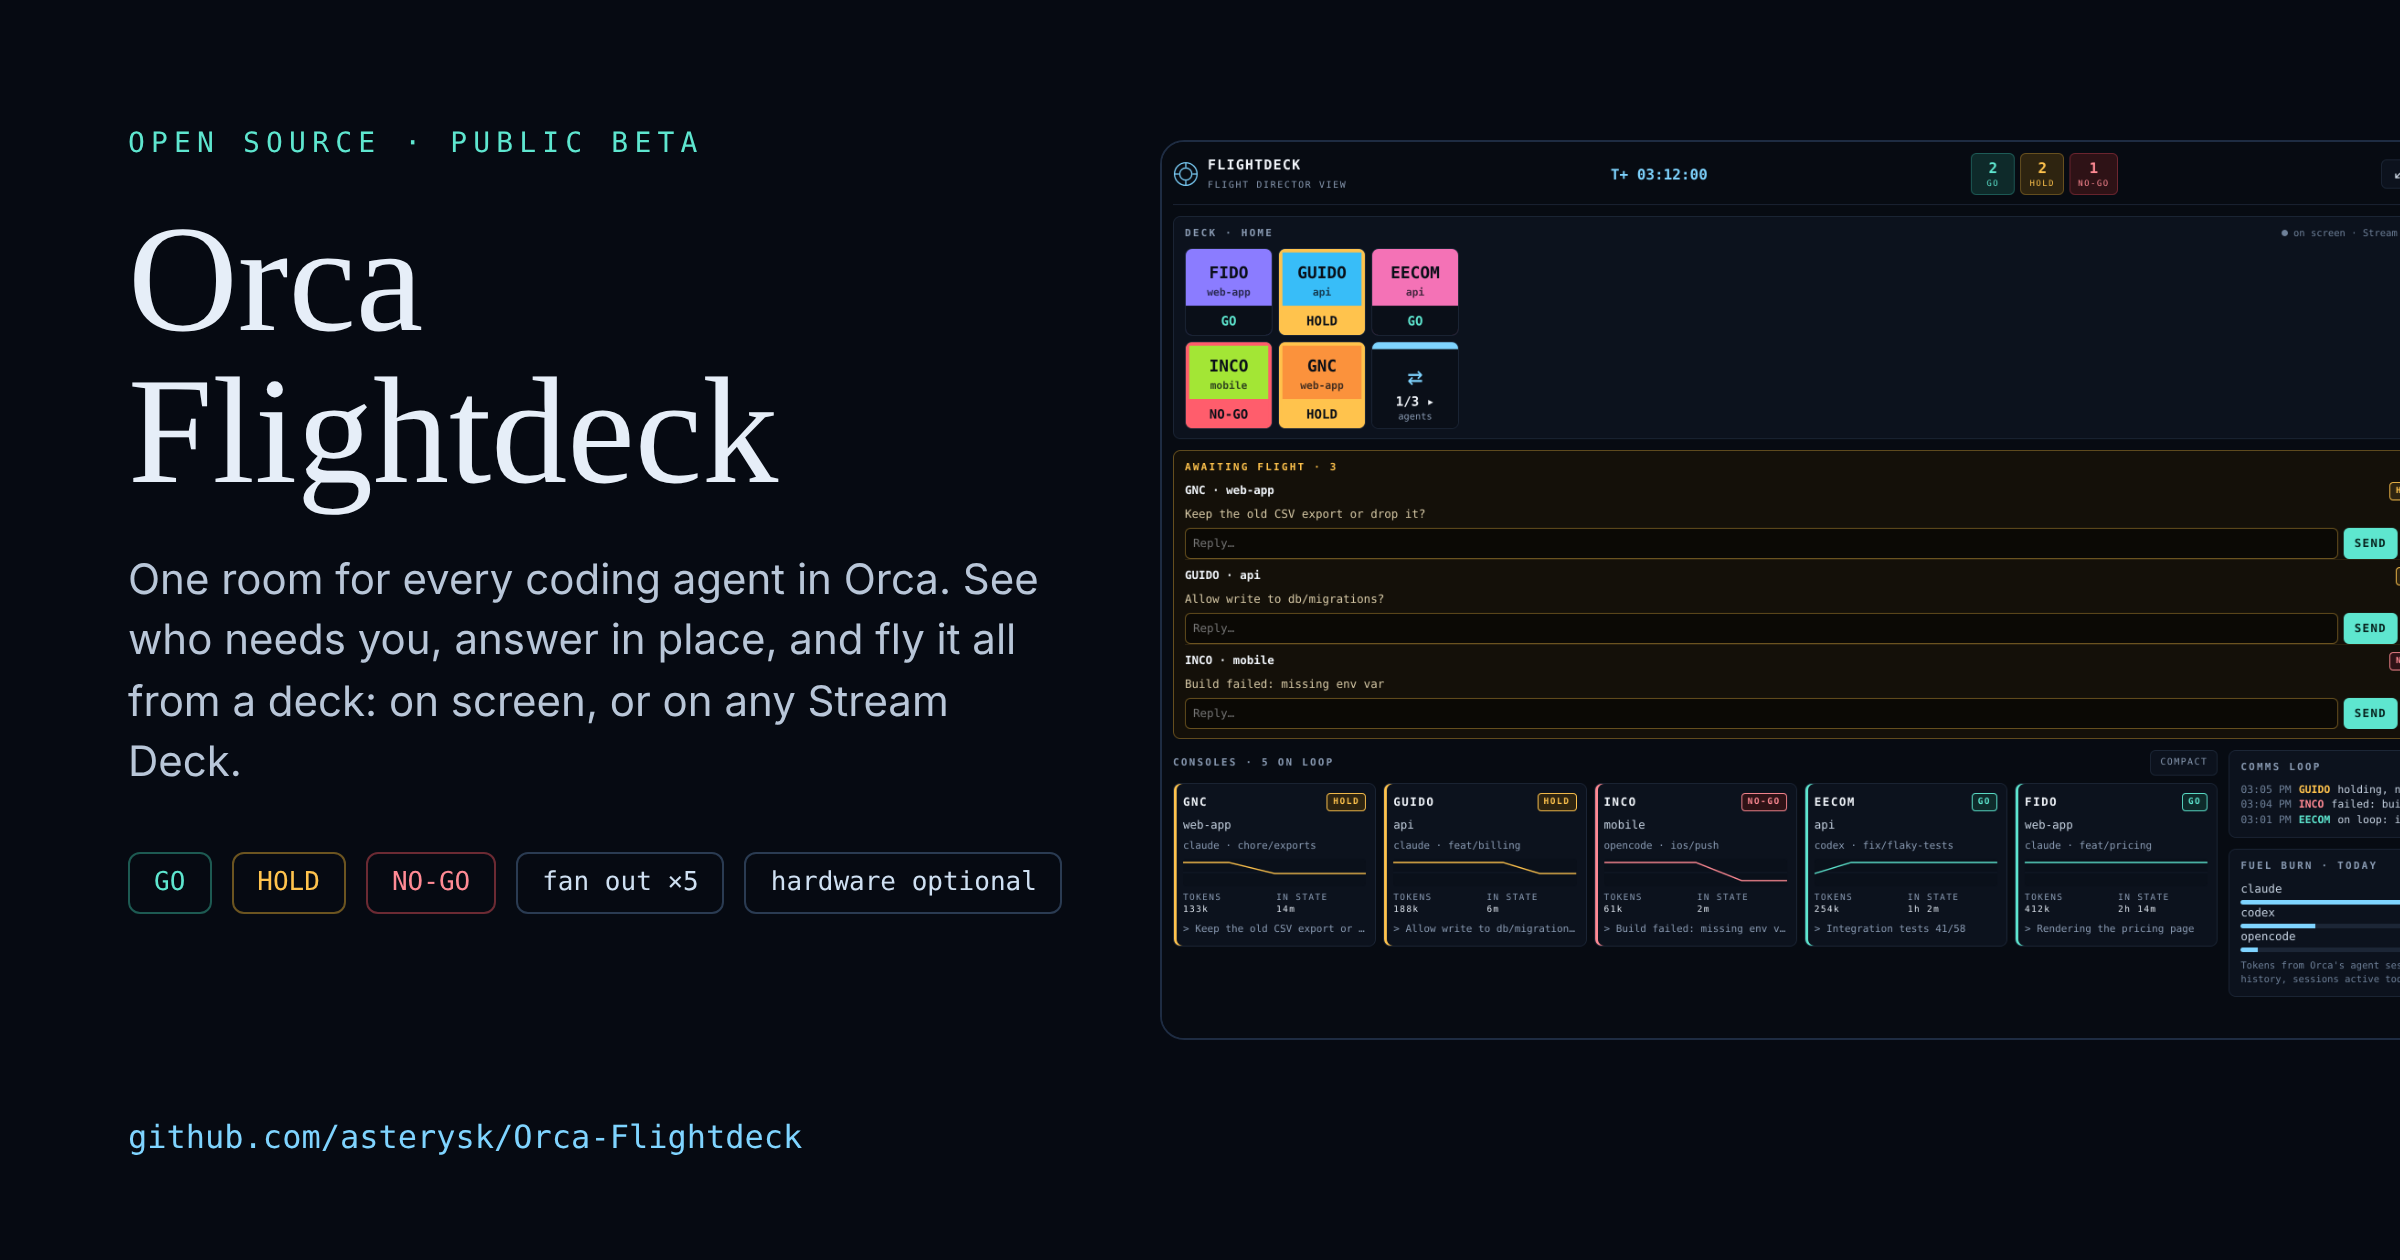
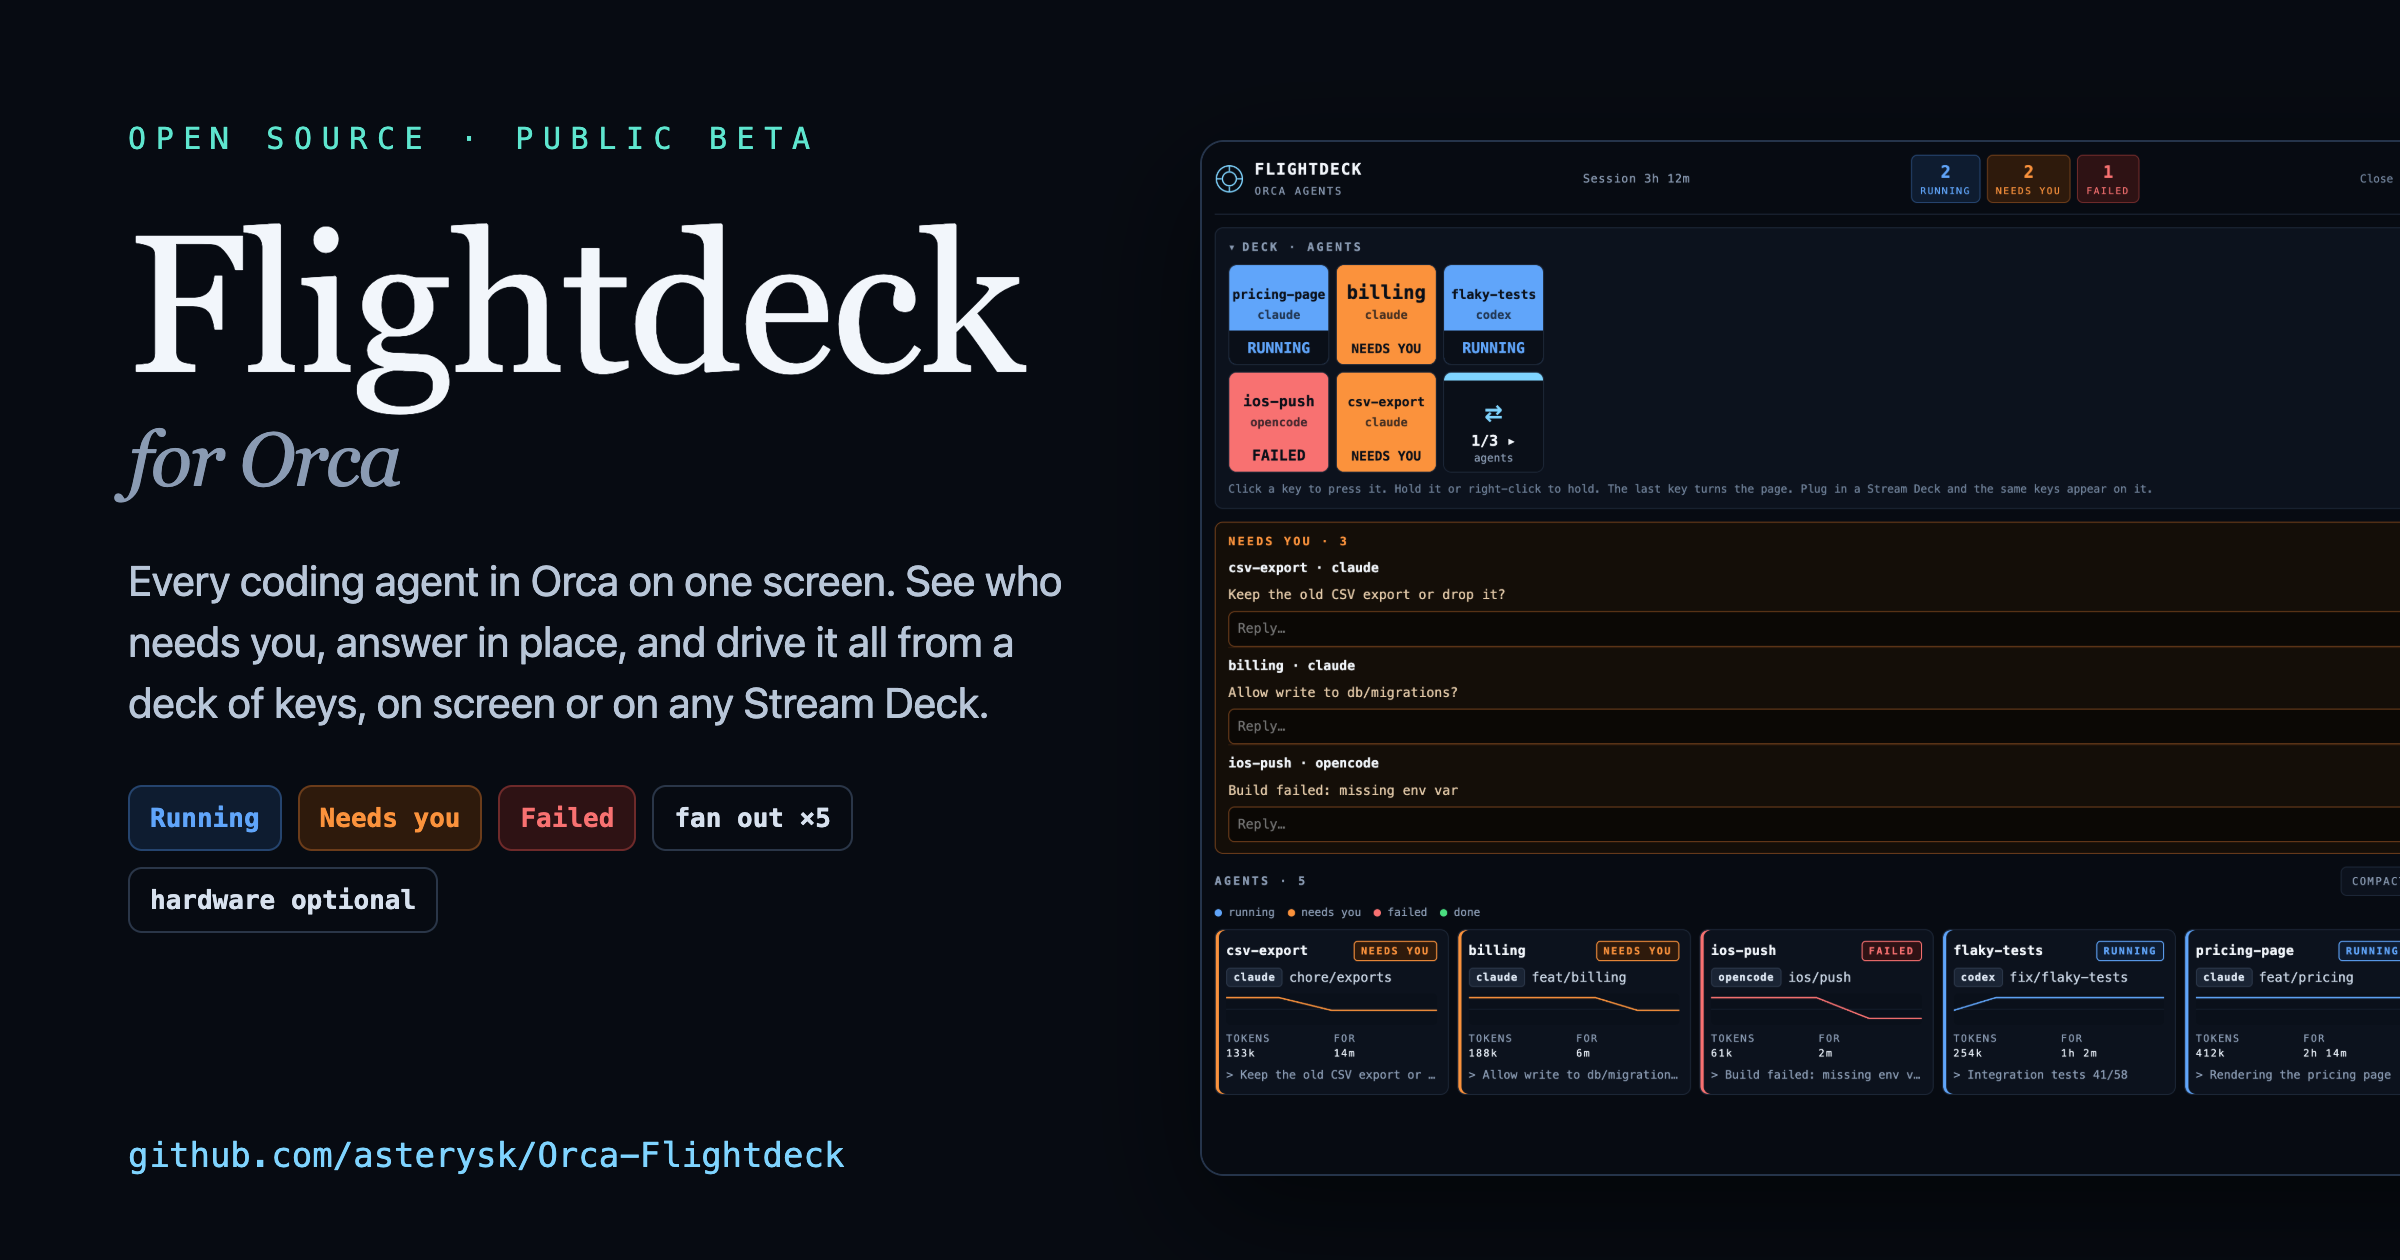
Rename to "Flightdeck for Orca"
The Orca plugin directory refused v0.5.1: display names starting with
"Orca" are reserved for official plugins. Only the display name changes;
the plugin id, settings, ~/.flightdeck/ and the repository URL stay.

Also: manifest description in plain words, and a new social card with the
new name and the plain-words look.

diff --git a/README.md b/README.md
@@ -1,6 +1,6 @@
 <div align="center">
 
-# ✈ Orca Flightdeck
+# ✈ Flightdeck for Orca
 
 **Run a fleet of coding agents like a mission control room.**
 
@@ -12,7 +12,7 @@ Fly it all from a deck of keys: on screen, or on any Stream Deck.
 [![License: MIT](https://img.shields.io/badge/license-MIT-7FD4FF?style=flat-square)](LICENSE)
 [![Stream Deck: optional](https://img.shields.io/badge/Stream%20Deck-optional-F472B6?style=flat-square)](#-hardware-optional)
 
-<img src="images/social-card.png" alt="Orca Flightdeck" width="820">
+<img src="images/social-card.png" alt="Flightdeck for Orca" width="820">
 
 [**Quick start**](#-quick-start-60-seconds) · [**Features**](#-what-it-does) · [**The deck**](#-the-deck) · [**Customise**](#-make-the-deck-yours) · [**FAQ**](#-faq)
 

diff --git a/CHANGELOG.md b/CHANGELOG.md
@@ -2,6 +2,8 @@
 
 ## Unreleased · plain words by default
 
+- **Renamed to Flightdeck for Orca.** The Orca plugin directory reserves display names that start with "Orca" for official plugins. The plugin id (`flightdeck`), settings and `~/.flightdeck/` are unchanged, and so is the repository URL.
+
 From first-user feedback: a new user should understand the screen in seconds, without the flight-control vocabulary.
 
 - **Plain words by default:** Running / Needs you / Failed / Done instead of GO / HOLD / NO-GO. Sections are **Agents**, **Needs you**, **Activity** and **Tokens today**, and the clock reads `Session 3h 12m` instead of `T+`. The status bar and desktop alerts use the same words.

diff --git a/CONTRIBUTING.md b/CONTRIBUTING.md
@@ -1,6 +1,6 @@
 # Contributing
 
-Thanks for helping with Orca Flightdeck. Issues and pull requests are welcome.
+Thanks for helping with Flightdeck for Orca. Issues and pull requests are welcome.
 
 ## Before you start
 
